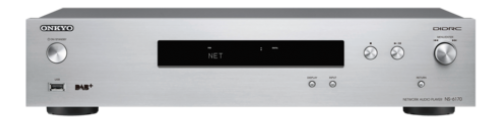
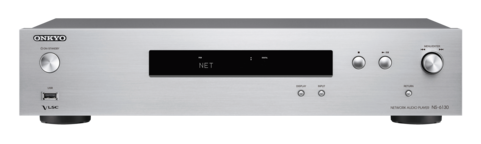
Updated description

diff --git a/README.md b/README.md
@@ -4,20 +4,26 @@
 
 # <img src="https://github.com/mkulesh/onpc/blob/master/images/icon.png" align="center" height="48" width="48"> "Onkyo Network Player Remote Control"
 
-This app allows to remote control Onkyo Network Player like [ONKYO NS-6130](https://www.eu.onkyo.com/en/products/ns-6130-132943.html) over the network using "Integra Serial Communication Protocol". The following features are currently implemented:
+This app allows to remote control Onkyo Network Player or a Network A/V Receiver like over the 
+network using "Integra Serial Communication Protocol". The app is primary invented to music control:
+navigation in the media library, playback control and sound tuning.
+
+## Benefits and features
+- The modern material design that supports different color themes and works on smartphone or tablet in portrait and landscape mode
+- Access to all functions with minimal number of clicks
 - Full playback control (play, stop, pause, track up/down, time seek, repeat and random modes)
-- Control Onkyo amplifier if it is attached to the player using RI interface (muting, volume, input selector)
+- Control Onkyo amplifier if attached to the player using RI interface (muting, volume, input selector)
 - Select the media to be played, full support of Tuneln Radio and Deezer
 - Play queue support (add, remove, clear, change the order of tracks)
 - Show information about the device and control some device settings (dimmer level, digital filter, auto power)
-- Support of different color themes, working on smartphone or tablet in portrait and landscape mode
 - The app only needs network permission in order to communicate with target device
 
 ## Supported devices
 Currently, this app is only tested with following devices:
-- ONKYO NS-6130 (Firmware versions 2110-0000-0000-0010-0000, 2120-1000-0000-0010-0000, ...)
+- [ONKYO NS-6130](https://www.eu.onkyo.com/en/products/ns-6130-132943.html) (Firmware versions 2110-0000-0000-0010-0000, 2120-1000-0000-0010-0000, ...)
 ![NS-6130](https://github.com/mkulesh/onpc/blob/master/images/ns_6130.png)
-- ONKYO TX-NR676E (Firmware version 1091-1020-3050-0010-0000)
+- [ONKYO TX-NR676E](https://www.eu.onkyo.com/en/products/tx-nr676e-138719.html) (Firmware version 1091-1020-3050-0010-0000)
+![TX-NR676E](https://github.com/mkulesh/onpc/blob/master/images/tx_nr676e.png)
 
 ## Screenshots
 * Playback screen in landscape orientation, Light (Teal and Deep Orange) theme
@@ -48,7 +54,7 @@ Documents from Onkyo describing the protocol, including lists of supported comma
 
 This software is published under the *GNU General Public License, Version 3*
 
-Copyright (C) 2014-2018 Mikhail Kulesh
+Copyright © 2018 by Mikhail Kulesh, Alexander Gomanuke
 
 This program is free software: you can redistribute it and/or modify it under the terms of the GNU General Public License as published by the Free Software Foundation, either version 3 of the License, or (at your option) any later version.
 
